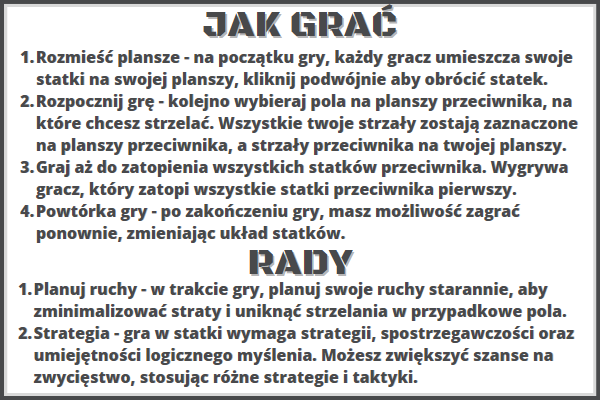
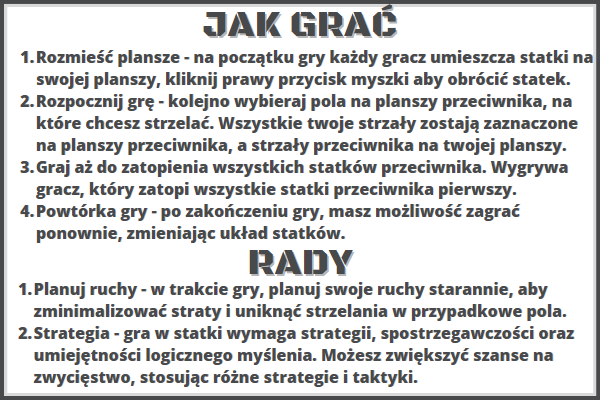
zmiana instrukcji mechanika podwojnego statku

Changed region(s): [[0.06, 0.12, 0.99, 0.24]]

diff --git a/GameSystem.cpp b/GameSystem.cpp
@@ -142,13 +142,11 @@ void Statek1::drawstatek1(ALLEGRO_EVENT event, PlanszaGry board) {
 	if (event.mouse.x >= x && event.mouse.x <= x + 40 && event.mouse.y >= y && event.mouse.y <= y + 40) {
 		if (event.type == ALLEGRO_EVENT_MOUSE_BUTTON_UP && !CzyUstawiony) {
 			isDragged = false;
-			std::cout << "\n\n";
 			for (int i = 0; i < 100; i++) {
 				if (x + 20 >= board.Pola[i]->x && x + 20 <= board.Pola[i]->x + 40 && y + 20 >= board.Pola[i]->y && y + 20 <= board.Pola[i]->y + 40) {
 					if (!board.Pola[i]->CzyStatek && !board.Pola[i]->wokolStatku) {
 						x = board.Pola[i]->x;
 						y = board.Pola[i]->y;
-						//std::cout << i << " ";
 						board.Pola[i]->CzyStatek = true;
 						CzyUstawiony = true;
 					//	if(!board.Pola.end())
@@ -188,7 +186,6 @@ void Statek1::drawstatek1(ALLEGRO_EVENT event, PlanszaGry board) {
 	if (event.type == ALLEGRO_EVENT_MOUSE_AXES && isDragged && !CzyUstawiony) {
 		x = event.mouse.x - al_get_bitmap_width(ship1) / 2;
 		y = event.mouse.y - al_get_bitmap_height(ship1) / 2;
-		//std::cout << x << " " << y << "\n";
 	}
 	al_draw_rotated_bitmap(ship1, al_get_bitmap_width(ship1) / 2, al_get_bitmap_height(ship1) / 2, x + al_get_bitmap_width(ship1) / 2, y + al_get_bitmap_height(ship1) / 2, degree * 3.14159 / 180, 0);
 }
@@ -201,6 +198,7 @@ Statek2::Statek2(char statek2[], float x, float y, int defaultx, int defaulty) {
 	this->defaultX = defaultx;
 	this->defaultY = defaulty;
 	this->isDragged = false;
+	this->CzyUstawiony = false;
 }
 
 void Statek2::drawstatek2(ALLEGRO_EVENT event, PlanszaGry board) {
@@ -211,6 +209,7 @@ void Statek2::drawstatek2(ALLEGRO_EVENT event, PlanszaGry board) {
 				std::cout << board.Pola[i-1]->CzyStatek<<" ";
 				if (i % 10 == 0)std::cout << "\n";
 			}
+			std::cout << "\n\n";
 			if (x + 20 >= 475 || x + 20 <= 75 || y + 20 >= 494 || y + 20 <= 94) {
 				x = defaultX;
 				y = defaultY;
@@ -232,7 +231,7 @@ void Statek2::drawstatek2(ALLEGRO_EVENT event, PlanszaGry board) {
 			}
 		}
 	}
-	if (event.type == ALLEGRO_EVENT_MOUSE_AXES && isDragged) {
+	if (event.type == ALLEGRO_EVENT_MOUSE_AXES && isDragged && !CzyUstawiony) {
 		x = event.mouse.x - al_get_bitmap_width(ship2) / 2;
 		y = event.mouse.y - al_get_bitmap_height(ship2) / 2;
 	}
@@ -247,6 +246,7 @@ Statek3::Statek3(char statek3[], float x, float y, int defaultx, int defaulty) {
 	this->defaultX = defaultx;
 	this->defaultY = defaulty;
 	this->isDragged = false;
+	this->CzyUstawiony = false;
 }
 
 void Statek3::drawstatek3(ALLEGRO_EVENT event, PlanszaGry board) {
@@ -290,6 +290,7 @@ Statek4::Statek4(char statek4[], float x, float y, int defaultx, int defaulty) {
 	this->defaultX = defaultx;
 	this->defaultY = defaulty;
 	this->isDragged = false;
+	this->CzyUstawiony = false;
 }
 
 void Statek4::drawstatek4(ALLEGRO_EVENT event, PlanszaGry board) {
@@ -363,19 +364,30 @@ void ArmiaGracz::restart(ALLEGRO_EVENT event, PlanszaGry board) {
 	for (auto& boat : statki1) {
 		boat->x = boat->defaultX;
 		boat->y = boat->defaultY;
+		boat->degree = 0;
 		boat->CzyUstawiony = false;
+		boat->isDragged = false;
 	}
 	for (auto& boat : statki2) {
 		boat->x = boat->defaultX;
 		boat->y = boat->defaultY;
+		boat->degree = 0;
+		boat->CzyUstawiony = false;
+		boat->isDragged = false;
 	}
 	for (auto& boat : statki3) {
 		boat->x = boat->defaultX;
 		boat->y = boat->defaultY;
+		boat->degree = 0;
+		boat->CzyUstawiony = false;
+		boat->isDragged = false;
 	}
 	for (auto& boat : statki4) {
 		boat->x = boat->defaultX;
 		boat->y = boat->defaultY;
+		boat->degree = 0;
+		boat->CzyUstawiony = false;
+		boat->isDragged = false;
 	}
 }
 

diff --git a/GameSystem.h b/GameSystem.h
@@ -113,6 +113,7 @@ public:
     float y;
     float degree;
     bool isDragged;
+    bool CzyUstawiony;
 
     Statek2(char statek2[], float x, float y, int defaultx, int defaulty);
     void drawstatek2(ALLEGRO_EVENT event, PlanszaGry board);
@@ -127,6 +128,7 @@ public:
     float y;
     float degree;
     bool isDragged;
+    bool CzyUstawiony;
 
     Statek3(char statek3[], float x, float y, int defaultx, int defaulty);
     void drawstatek3(ALLEGRO_EVENT event, PlanszaGry board);
@@ -141,6 +143,7 @@ public:
     float y;
     float degree;
     bool isDragged;
+    bool CzyUstawiony;
 
     Statek4(char statek4[], float x, float y, int defaultx, int defaulty);
     void drawstatek4(ALLEGRO_EVENT event, PlanszaGry board);
